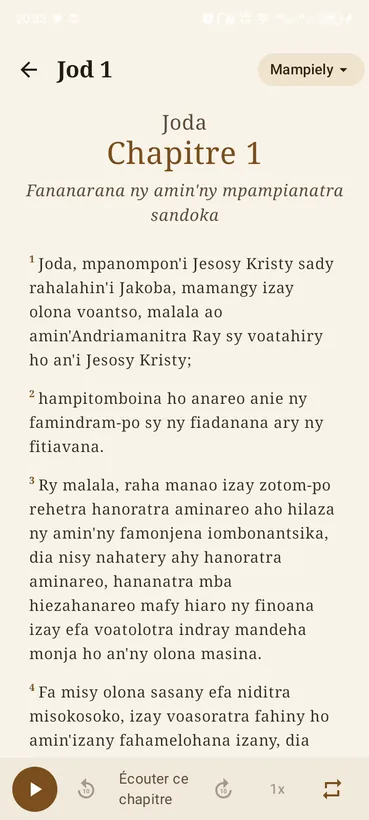
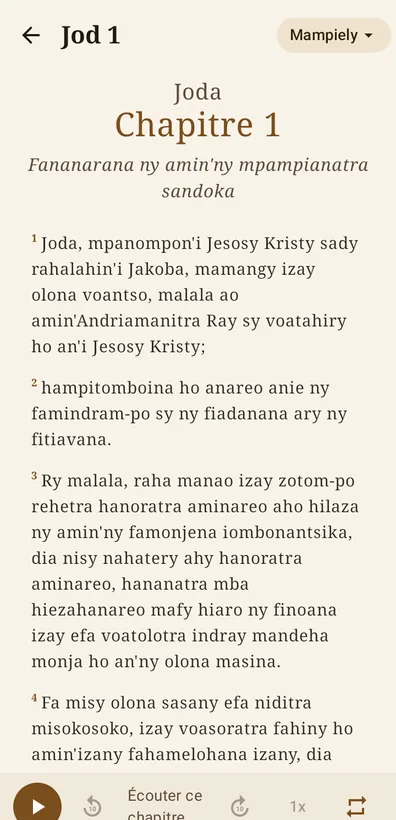
Captures sans la barre d etat Android

diff --git a/index.html b/index.html
@@ -233,11 +233,11 @@
     </div>
 
     <div class="telephones">
-      <img class="tel-a" src="captures/05-bible.webp" alt="La lecture d'un chapitre de la Bible" loading="lazy" width="369" height="820">
-      <img class="tel-b" src="captures/01-accueil.webp" alt="L'accueil de l'application" width="369" height="820">
-      <img class="tel-c" src="captures/04-hira.webp" alt="La liste des cantiques" loading="lazy" width="369" height="820">
+      <img class="tel-a" src="captures/05-bible.webp" alt="La lecture d'un chapitre de la Bible" loading="lazy" width="396" height="820">
+      <img class="tel-b" src="captures/01-accueil.webp" alt="L'accueil de l'application" width="396" height="820">
+      <img class="tel-c" src="captures/04-hira.webp" alt="La liste des cantiques" loading="lazy" width="396" height="820">
     </div>
-    <img class="tel-seul" src="captures/01-accueil.webp" alt="L'accueil de l'application" width="369" height="820">
+    <img class="tel-seul" src="captures/01-accueil.webp" alt="L'accueil de l'application" width="396" height="820">
   </div>
 </header>
 
@@ -308,7 +308,7 @@
         <li>Notes et surlignages restent attachés au verset</li>
       </ul>
     </div>
-    <img src="captures/06-comparaison.webp" alt="Deux versions de la Bible affichées côte à côte" loading="lazy" width="369" height="820">
+    <img src="captures/06-comparaison.webp" alt="Deux versions de la Bible affichées côte à côte" loading="lazy" width="396" height="820">
   </div>
 </section>
 
@@ -325,7 +325,7 @@
         <li>Partage des suites d'accords entre musiciens</li>
       </ul>
     </div>
-    <img src="captures/09-accords.webp" alt="La grille d'accords d'un cantique" loading="lazy" width="369" height="820">
+    <img src="captures/09-accords.webp" alt="La grille d'accords d'un cantique" loading="lazy" width="396" height="820">
   </div>
 </section>
 
@@ -335,14 +335,14 @@
     <p>En clair comme en sombre, selon le réglage du téléphone.</p>
   </div>
   <div class="galerie">
-    <img src="captures/01-accueil.webp" alt="L'accueil" loading="lazy" width="369" height="820">
-    <img src="captures/05-bible.webp" alt="La lecture d'un chapitre" loading="lazy" width="369" height="820">
-    <img src="captures/06-comparaison.webp" alt="La comparaison de deux versions" loading="lazy" width="369" height="820">
-    <img src="captures/04-hira.webp" alt="Les cantiques" loading="lazy" width="369" height="820">
-    <img src="captures/09-accords.webp" alt="Les accords" loading="lazy" width="369" height="820">
-    <img src="captures/07-ia.webp" alt="La discussion assistée" loading="lazy" width="369" height="820">
-    <img src="captures/03-amis-partage.webp" alt="Le partage entre amis" loading="lazy" width="369" height="820">
-    <img src="captures/11-sombre-accueil.webp" alt="L'accueil en mode sombre" loading="lazy" width="369" height="820">
+    <img src="captures/01-accueil.webp" alt="L'accueil" loading="lazy" width="396" height="820">
+    <img src="captures/05-bible.webp" alt="La lecture d'un chapitre" loading="lazy" width="396" height="820">
+    <img src="captures/06-comparaison.webp" alt="La comparaison de deux versions" loading="lazy" width="396" height="820">
+    <img src="captures/04-hira.webp" alt="Les cantiques" loading="lazy" width="396" height="820">
+    <img src="captures/09-accords.webp" alt="Les accords" loading="lazy" width="396" height="820">
+    <img src="captures/07-ia.webp" alt="La discussion assistée" loading="lazy" width="396" height="820">
+    <img src="captures/03-amis-partage.webp" alt="Le partage entre amis" loading="lazy" width="396" height="820">
+    <img src="captures/11-sombre-accueil.webp" alt="L'accueil en mode sombre" loading="lazy" width="396" height="820">
   </div>
 </section>
 
